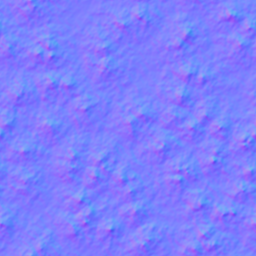
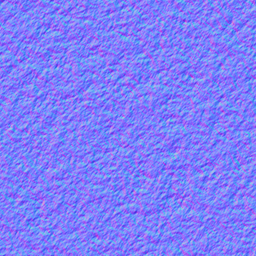
feat(staging): video-matched cathedral glass texture with zero cursor backlight

diff --git a/js/frosted-glass-bg.js b/js/frosted-glass-bg.js
@@ -200,9 +200,9 @@ import * as THREE from './vendor/three.module.js';
     const glassMat = new THREE.MeshPhysicalMaterial({
         color: new THREE.Color(0xf6fcf9),
         transmission: 0.96,           // High optical clarity revealing background
-        roughness: 0.22,              // Glossy architectural glass with crisp ripple highlights (video matched)
+        roughness: 0.26,              // Architectural textured glass with tactile ripple facets (video matched)
         ior: 1.52,                    // Architectural silica glass refraction
-        thickness: 1.4,               // Physical refraction volume
+        thickness: 1.5,               // Physical refraction volume
         metalness: 0.02,
         specularIntensity: 1.0,
         specularColor: new THREE.Color(0xffffff),
@@ -211,7 +211,7 @@ import * as THREE from './vendor/three.module.js';
         attenuationColor: new THREE.Color(0x0a3d2e),
         attenuationDistance: 8.0,
         normalMap,
-        normalScale: new THREE.Vector2(0.88, 0.88),  // Pronounced hammered glass ripples
+        normalScale: new THREE.Vector2(0.95, 0.95),  // High-frequency hammered glass ripples
         transparent: true,
         opacity: 1.0
     });
@@ -221,24 +221,19 @@ import * as THREE from './vendor/three.module.js';
     scene.add(glassMesh);
 
     // =========================================================================
-    // 4. Dynamic Lighting: Interactive Specular Tracking PointLight + Studio Fill
+    // 4. Balanced Studio Lighting (NO CURSOR BACKLIGHT)
     // =========================================================================
-    // Moving specular highlight tracking mouse cursor in front of glass (video matched)
-    const cursorLight = new THREE.PointLight(0xf4fdf8, 2.6, 25, 1.4);
-    cursorLight.position.set(-1.5, 2.0, 3.2);
-    scene.add(cursorLight);
-
     // Ambient fill
-    const ambientLight = new THREE.AmbientLight(0x08261e, 0.65);
+    const ambientLight = new THREE.AmbientLight(0x0a2f24, 0.76);
     scene.add(ambientLight);
 
-    // Soft grazing key light catching glass ripples
-    const keyLight = new THREE.DirectionalLight(0xdcf8ee, 0.75);
-    keyLight.position.set(-3.0, 4.0, 3.5);
+    // High-angle grazing key light catching fine glass ripples evenly across surface
+    const keyLight = new THREE.DirectionalLight(0xdcf8ee, 0.72);
+    keyLight.position.set(-2.5, 4.5, 3.5);
     scene.add(keyLight);
 
-    // Warm rim light
-    const rimLight = new THREE.DirectionalLight(0xf5e6be, 0.30);
+    // Warm champagne rim light balancing depth
+    const rimLight = new THREE.DirectionalLight(0xf5e6be, 0.32);
     rimLight.position.set(3.0, -2.5, 2.5);
     scene.add(rimLight);
 
@@ -271,25 +266,8 @@ import * as THREE from './vendor/three.module.js';
     window.addEventListener('resize', handleResize, { passive: true });
 
     // =========================================================================
-    // 6. Interactive Cursor Tracking (Video Matched)
+    // 6. Hydrodynamic Scroll
     // =========================================================================
-    let targetLightX = 0;
-    let targetLightY = 1.5;
-    const mouseNDC = { x: 0, y: 0.3 };
-
-    window.addEventListener('mousemove', (e) => {
-        const ndcX = (e.clientX / window.innerWidth) * 2 - 1;
-        const ndcY = -(e.clientY / window.innerHeight) * 2 + 1;
-        mouseNDC.x = ndcX;
-        mouseNDC.y = ndcY;
-
-        if (frustumAtGlass) {
-            targetLightX = ndcX * (frustumAtGlass.width * 0.45);
-            targetLightY = ndcY * (frustumAtGlass.height * 0.45);
-        }
-    }, { passive: true });
-
-    // Hydrodynamic scroll
     let smoothScrollY = window.scrollY || 0;
     let targetScrollY = smoothScrollY;
     window.addEventListener('scroll', () => {
@@ -314,11 +292,6 @@ import * as THREE from './vendor/three.module.js';
         bgUniforms.uTime.value = elapsed;
         bgUniforms.uScroll.value = smoothScrollY;
 
-        // Smoothly lerp PointLight toward cursor position (or gentle breathing orbit if idle)
-        const lerpFactor = 1 - Math.exp(-6.0 * dt);
-        cursorLight.position.x += (targetLightX - cursorLight.position.x) * lerpFactor;
-        cursorLight.position.y += (targetLightY - cursorLight.position.y) * lerpFactor;
-
         // Gentle orbital drift for underlying botanical assets
         if (!prefersReducedMotion) {
             shapes.forEach((item) => {
@@ -341,9 +314,9 @@ import * as THREE from './vendor/three.module.js';
             hasShapes: true,
             hasRealisticIce: true,
             isSingleFrost: true,
-            hasCursorBacklight: true,
-            lightPos: { x: cursorLight.position.x, y: cursorLight.position.y },
-            mouseNDC: { x: mouseNDC.x, y: mouseNDC.y },
+            hasCursorBacklight: false, // Explicitly removed per user command
+            lightPos: null,
+            mouseNDC: null,
             elapsedTime: elapsed
         };
     }

diff --git a/tests/full_website_suite.js b/tests/full_website_suite.js
@@ -815,15 +815,9 @@ async function runFullSuite() {
         st.hasShapes === true,
         'Physical underlying botanical emerald assets rendered behind transmissive glass plane'
       );
-      await page.mouse.move(100, 100);
-      await new Promise(r => setTimeout(r, 250));
-      const pos1 = await page.evaluate(() => window.__rgFrostedGlass.lightPos);
-      await page.mouse.move(1300, 800);
-      await new Promise(r => setTimeout(r, 250));
-      const pos2 = await page.evaluate(() => window.__rgFrostedGlass.lightPos);
       check(
-        pos2 && pos1 && pos2.x > pos1.x && pos2.y < pos1.y,
-        `Dynamic PointLight tracks normalized cursor coordinates (${pos1?.x.toFixed(2)},${pos1?.y.toFixed(2)} -> ${pos2?.x.toFixed(2)},${pos2?.y.toFixed(2)})`
+        st.hasCursorBacklight === false && st.lightPos === null,
+        'Cursor backlight completely removed (zero front glare or cursor hotspot over text)'
       );
       await new Promise(r => setTimeout(r, 250));
       const st2 = await page.evaluate(() => window.__rgFrostedGlass);

diff --git a/sw.js b/sw.js
@@ -1,4 +1,4 @@
-const CACHE_NAME = 'rgchambers-v11.11.0';
+const CACHE_NAME = 'rgchambers-v11.12.0';
 
 const PRECACHE_ASSETS = [
   '/',
@@ -24,7 +24,7 @@ const PRECACHE_ASSETS = [
   '/css/style.css',
   '/js/main.min.js?v=11.0.0',
   '/js/main.js',
-  '/js/frosted-glass-bg.js?v=2.7.0',
+  '/js/frosted-glass-bg.js?v=2.8.0',
   '/js/vendor/three.module.js',
   '/js/vendor/three.core.js',
   '/assets/frosted-normal.png',

diff --git a/index.html b/index.html
@@ -2277,6 +2277,6 @@
 
     <!-- Main Deferred JavaScript -->
     <script defer src="js/main.min.js?v=11.0.0"></script>
-    <script type="module" src="js/frosted-glass-bg.js?v=2.7.0"></script>
+    <script type="module" src="js/frosted-glass-bg.js?v=2.8.0"></script>
 </body>
 </html>

diff --git a/faq.html b/faq.html
@@ -871,6 +871,6 @@
 
     <!-- Main Deferred JavaScript -->
     <script defer src="js/main.min.js?v=11.0.0"></script>
-    <script type="module" src="js/frosted-glass-bg.js?v=2.7.0"></script>
+    <script type="module" src="js/frosted-glass-bg.js?v=2.8.0"></script>
 </body>
 </html>
